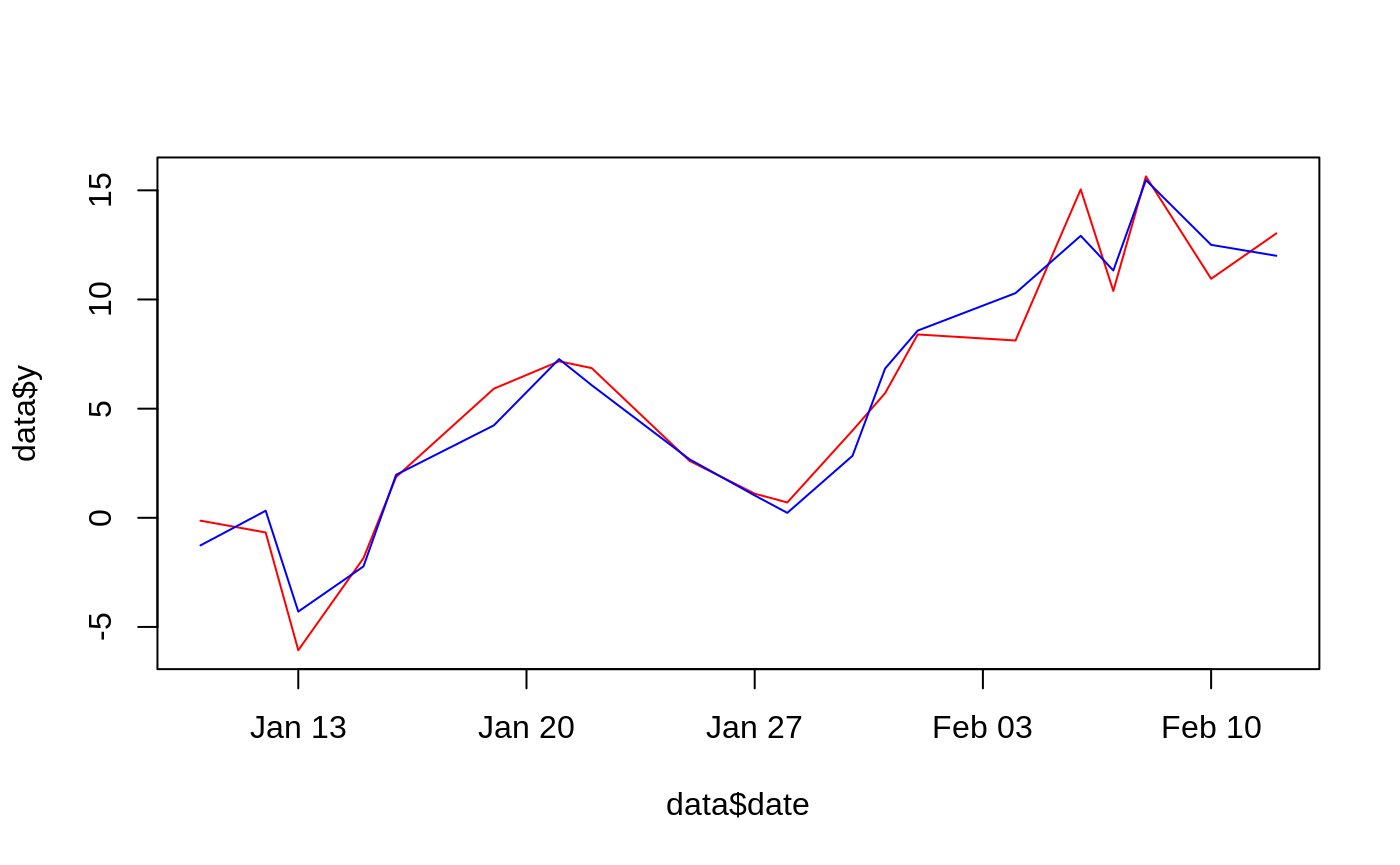
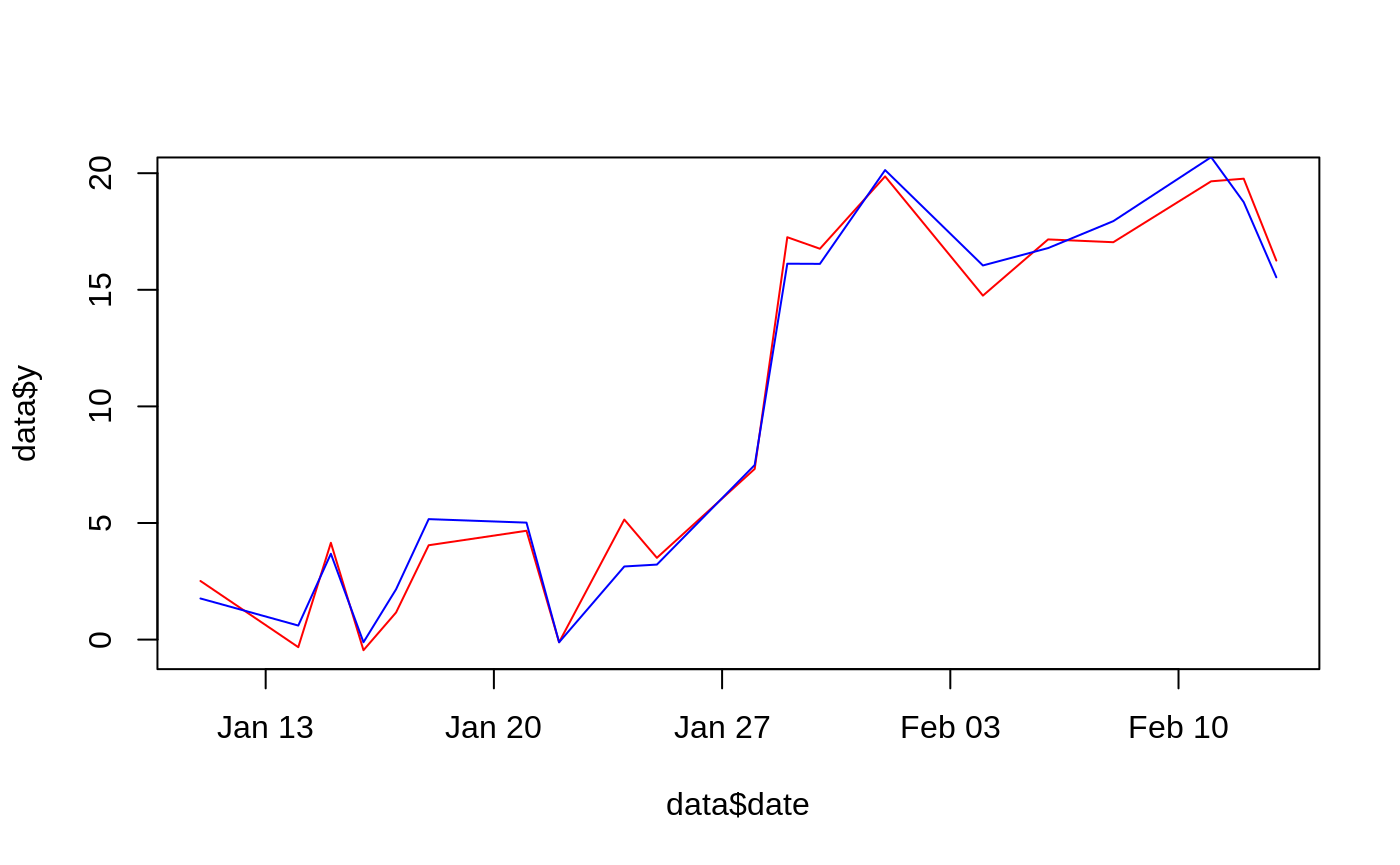
Deploy gogonzo/runner to github.com/gogonzo/runner.git:gh-pages

diff --git a/articles/runner_examples.html b/articles/runner_examples.html
@@ -101,7 +101,7 @@
 <a class="sourceLine" id="cb1-3" data-line-number="3">date &lt;-<span class="st"> </span><span class="kw"><a href="https://rdrr.io/r/base/as.Date.html">as.Date</a></span>(<span class="kw"><a href="https://rdrr.io/r/base/cumsum.html">cumsum</a></span>(<span class="kw"><a href="https://rdrr.io/r/base/sample.html">sample</a></span>(<span class="dv">1</span><span class="op">:</span><span class="dv">5</span>, <span class="dv">20</span>, <span class="dt">replace =</span> <span class="ot">TRUE</span>)), <span class="dt">origin =</span> <span class="kw"><a href="https://rdrr.io/r/base/Sys.time.html">Sys.Date</a></span>()) <span class="co"># unequaly spaced time series</span></a>
 <a class="sourceLine" id="cb1-4" data-line-number="4"></a>
 <a class="sourceLine" id="cb1-5" data-line-number="5"><span class="kw"><a href="../reference/runner.html">runner</a></span>(x, <span class="dt">k =</span> <span class="dv">7</span>, <span class="dt">idx =</span> date, <span class="dt">f =</span> <span class="cf">function</span>(x) <span class="kw"><a href="https://rdrr.io/r/base/length.html">length</a></span>(<span class="kw"><a href="https://rdrr.io/r/base/unique.html">unique</a></span>(x)))</a></code></pre></div>
-<pre><code>##  [1] 1 2 2 3 3 3 2 3 3 2 3 3 3 3 4 3 2 3 3 4</code></pre>
+<pre><code>##  [1] 1 2 3 2 3 3 2 2 3 3 2 2 2 2 3 4 4 3 2 2</code></pre>
 </div>
 <div id="weekly-trimmed-mean" class="section level3">
 <h3 class="hasAnchor">
@@ -110,10 +110,10 @@
 <a class="sourceLine" id="cb3-2" data-line-number="2">date &lt;-<span class="st"> </span><span class="kw"><a href="https://rdrr.io/r/base/as.Date.html">as.Date</a></span>(<span class="kw"><a href="https://rdrr.io/r/base/cumsum.html">cumsum</a></span>(<span class="kw"><a href="https://rdrr.io/r/base/sample.html">sample</a></span>(<span class="dv">1</span><span class="op">:</span><span class="dv">5</span>, <span class="dv">20</span>, <span class="dt">replace =</span> <span class="ot">TRUE</span>)), <span class="dt">origin =</span> <span class="kw"><a href="https://rdrr.io/r/base/Sys.time.html">Sys.Date</a></span>()) <span class="co"># unequaly spaced time series</span></a>
 <a class="sourceLine" id="cb3-3" data-line-number="3"></a>
 <a class="sourceLine" id="cb3-4" data-line-number="4"><span class="kw"><a href="../reference/runner.html">runner</a></span>(x, <span class="dt">k =</span> <span class="dv">7</span>, <span class="dt">idx =</span> date, <span class="dt">f =</span> <span class="cf">function</span>(x) <span class="kw"><a href="https://rdrr.io/r/base/mean.html">mean</a></span>(x, <span class="dt">trim =</span> <span class="fl">0.05</span>))</a></code></pre></div>
-<pre><code>##  [1] -0.08257706 -0.44291978 -0.25059194  0.26765623 -0.03860244  0.09405757
-##  [7]  0.03234292  0.10533656  0.42445002  1.04073776  1.37157364  1.46059645
-## [13]  2.02475366  2.79832011  3.16548755  3.43561573  3.19482262  3.06271420
-## [19]  2.99964869  2.57624523</code></pre>
+<pre><code>##  [1] -0.9919722 -0.3246399 -0.6753750 -1.2490400 -2.5758098 -3.2833879
+##  [7] -4.6958919 -4.4878877 -4.4739861 -5.2943955 -5.2257999 -5.7213669
+## [13] -5.5751954 -5.7744131 -5.6758784 -5.6848161 -5.7824944 -5.7686220
+## [19] -6.3957285 -7.2204895</code></pre>
 </div>
 <div id="weeks-regression" class="section level3">
 <h3 class="hasAnchor">

diff --git a/articles/the_runner_package.html b/articles/the_runner_package.html
@@ -84,7 +84,7 @@
       <h1>The runner package</h1>
                         <h4 class="author">Dawid Kałędkowski</h4>
             
-            <h4 class="date">2020-01-09</h4>
+            <h4 class="date">2020-01-10</h4>
       
       
       <div class="hidden name"><code>the_runner_package.Rmd</code></div>
@@ -163,21 +163,21 @@
 <a class="sourceLine" id="cb2-17" data-line-number="17"></a>
 <a class="sourceLine" id="cb2-18" data-line-number="18"><span class="kw"><a href="https://rdrr.io/r/base/data.frame.html">data.frame</a></span>(x, k, idx, simple_mean, trimmed_mean, varying_window, date_windows)</a></code></pre></div>
 <pre><code>##             x  k idx simple_mean trimmed_mean varying_window date_windows
-## 1  0.62294213  1   4   0.6229421    0.6229421      0.6229421    0.6229421
-## 2  0.25498935 15   8   0.4389657    0.4389657      0.4389657    0.4389657
-## 3  0.29499538  8  10   0.3909756    0.3909756      0.3909756    0.3909756
-## 4  0.04750125  5  12   0.3051070    0.3051070      0.3051070    0.1991620
-## 5  0.57371044  2  14   0.2927991    0.2927991      0.3106058    0.5737104
-## 6  0.26362561 12  18   0.2949582    0.2949582      0.3429607    0.2869644
-## 7  0.16257392  3  19   0.2618528    0.2618528      0.3333033    0.2130998
-## 8  0.50622736 12  23   0.3765343    0.3765343      0.3408207    0.3107277
-## 9  0.84326375 10  26   0.4439227    0.4439227      0.3966477    0.4439227
-## 10 0.67037959  9  30   0.5456112    0.5456112      0.4019185    0.6732902
-## 11 0.43173530 14  33   0.6129015    0.6129015      0.4247222    0.6129015
-## 12 0.03695464 11  34   0.4955833    0.4955833      0.3714506    0.4955833
-## 13 0.18414354 15  38   0.3308033    0.3308033      0.3763879    0.4332954
-## 14 0.14239134 15  40   0.1988062    0.1988062      0.3596738    0.3848114
-## 15 0.53204584 11  43   0.2238838    0.2238838      0.3951865    0.2654541</code></pre>
+## 1  0.10245158 11   4   0.1024516    0.1024516      0.1024516    0.1024516
+## 2  0.26641225  4   8   0.1844319    0.1844319      0.1844319    0.2664123
+## 3  0.48508632  2  10   0.2846501    0.2846501      0.3757493    0.4850863
+## 4  0.90892844  8  11   0.4407196    0.4407196      0.4407196    0.4407196
+## 5  0.06493970 15  15   0.4313417    0.4313417      0.3655637    0.3655637
+## 6  0.69556774  5  16   0.5386306    0.5386306      0.4841869    0.3802537
+## 7  0.91798375 10  18   0.6468549    0.6468549      0.4916243    0.6145012
+## 8  0.01796805  5  22   0.4241148    0.4241148      0.5210775    0.4679759
+## 9  0.43849091 12  24   0.5175026    0.5175026      0.4330921    0.4269900
+## 10 0.84825455  8  26   0.5556743    0.5556743      0.5471524    0.4349045
+## 11 0.96296417  1  27   0.5669194    0.5669194      0.9629642    0.9629642
+## 12 0.46325161 15  28   0.6782403    0.6782403      0.5143583    0.5511776
+## 13 0.57740409  4  32   0.7129686    0.7129686      0.7129686    0.5774041
+## 14 0.12556898 12  33   0.5322972    0.5322972      0.5422007    0.4905575
+## 15 0.91407572  6  36   0.5200751    0.5200751      0.6485865    0.5390163</code></pre>
 </div>
 <div id="builtin-functions" class="section level3">
 <h3 class="hasAnchor">
